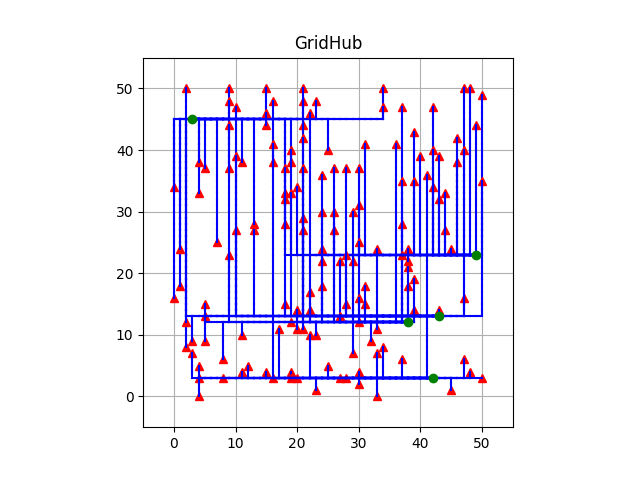
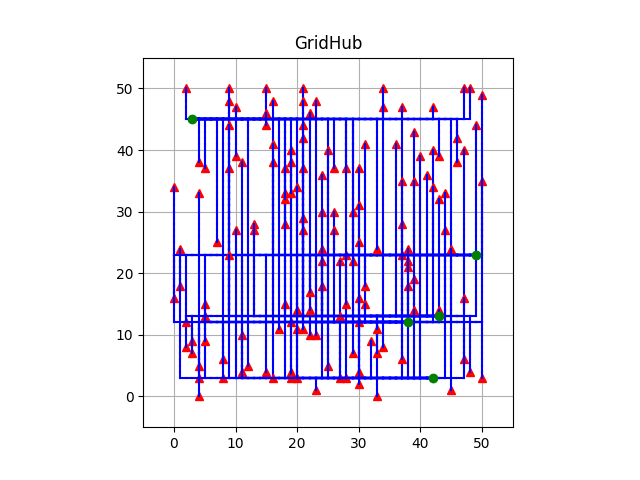
update greedy with shared cables

Changed region(s): [[0.25, 0.2188, 0.7812, 0.7812], [0.7188, 0.7812, 0.75, 0.8125]]

diff --git a/code/classes/grid.py b/code/classes/grid.py
@@ -6,6 +6,7 @@ import random
 from .battery import *
 from .cable import *
 from .house import *
+from .coordinate import *
 
 
 from code.classes import cable
@@ -15,7 +16,7 @@ DIMENSION = 51
 
 class Grid():
     """
-    This Grid Class initializes the Battery object with attributes: a grid with DIMENSIONS rows and columns.
+    This Grid Class initializes the Battery object with attributes: a grid with DIMENSION rows and columns.
     Also the list of house and battery objects live here
     """
 
@@ -28,7 +29,8 @@ class Grid():
         self.grid = []
         self.houses = self.load_houses(infile_house)
         self.batteries = self.load_batteries(infile_battery)
-        # self.grid_distances = []
+        self.coordinates = self.add_coordinates
+        self.connected_coordinates = []
         self.score = 0
         self.is_valid = True
 
@@ -43,8 +45,10 @@ class Grid():
             self.grid.append(new_row)
 
         # place into grid
+        self.add_coordinates()
         self.add_houses(self.houses)
         self.add_batteries(self.batteries)
+        
 
     def load_houses(self, source_file):     
         """
@@ -89,6 +93,9 @@ class Grid():
                 battery = Battery(x, y , cap, id)
                 batteries.append(battery)
                 id += 1
+
+                self.coordinates[x + (51 - y) * 51].batteries.append(battery)
+                self.connected_coordinates.append[self.coordinates[x + (51 - y) * 51]]
 
         return batteries
 
@@ -189,9 +196,6 @@ class Grid():
         bat.capacity_left -= house.output
         self.lay_cable(bat, house)
 
-    # def pick_greedy(self, bat, house):
-        # pass 
-
     def reconnect_constraint(self, house, bat):
         """
 
@@ -228,4 +232,65 @@ class Grid():
     # def connect_house_greedy_con(self, house, bat):
     
     def __str__(self):
-        return f"grid solution object"
+        return f"grid object"
+
+
+    #######################
+    # Shared cables
+    #######################
+
+    def add_coordinates(self):
+        list = []
+
+        for y in range(DIMENSION):
+            for x in range(DIMENSION):
+                coordinate = Coordinate(x, y)
+                list.append(coordinate)
+
+        return list
+
+    def calc_distance(self, point1, point2):
+        dist = abs(point1.y_coordinate - point2.y_coordinate) + abs(point1.x_coordinate - point2.x_coordinate)
+        return dist
+
+    def calc_path(self, point1, point2):
+        path = []
+        
+        if point1.x_coordinate < point2.x_coordinate:
+            for x_step in range(point1.x_coordinate, point2.x_coordinate):
+                path.append([x_step, point1.y_coordinate])
+        else:
+            for x_step in range(point2.x_coordinate, point1.x_coordinate):
+                path.append([point1.x_coordinate - x_step + point2.x_coordinate, point1.y_coordinate])
+
+        if point1.y_coordinate < point2.y_coordinate:
+            for y_step in range(point1.y_coordinate, point2.y_coordinate + 1):
+                path.append([point2.x_coordinate, y_step])
+        else:
+            for y_step in range(point2.y_coordinate, point1.y_coordinate + 1):
+                path.append([point2.x_coordinate, point1.y_coordinate - y_step + point2.y_coordinate])
+        
+        return path
+
+    def mark_connected(self, coordinate, bat):
+        coordinate.batteries.append(bat)
+
+    def is_connected(self, coordinate):
+        if coordinate.batteries:
+            return True
+        return False
+
+    def connect_power(self, path, bat):
+        for point in path:
+            # for coordinate in self.coordinates:
+            #     if coordinate.id == 100 * point[0] + point[1]:
+            #         self.mark_connected(coordinate, bat)
+            self.coordinates[point[0] + (51 - point[1]) * 51].batteries.append(bat)
+            self.connected_coordinates.append(self.coordinates[point[0] + (51 - point[1]) * 51])
+
+            
+            
+
+        
+
+

diff --git a/code/visualisations/visualise.py b/code/visualisations/visualise.py
@@ -7,12 +7,8 @@ pip3 install matplotlib
 from matplotlib import pyplot as plt
 
 # In de juiste mappen gaan
-import sys, os
-import numpy as np
-
-
-sys.path.insert(0, os.path.abspath('../..'))
-from code.classes import battery, house, cable, grid
+# import sys, os
+# sys.path.insert(0, os.path.abspath('../..'))
 
 
 def visualise(grid_input):
@@ -25,12 +21,12 @@ def visualise(grid_input):
     ax = fig.add_subplot(111)
     # create a grid with x and y axes -5 to -55 and every interval of 1 for each x and y
     plt.axis([-5, 55, -5, 55])
-    plt.xticks = np.arange(-5, 55)
-    plt.yticks = np.arange(-5, 55)
-    # plt.xticks([-5, -4, -3, -2, -1, 0, 1, 2, 3, 4, 5, 6, 7, 8, 9, 10, 11, 12, 13, 14, 15 ,16 ,17, 18, 19, 20, 21, 22, 23, 24, 25, 26, 27, 28, 29, 30,
-    # 31, 32, 33, 34, 35, 36, 37, 38, 39, 40, 41, 42, 43, 44, 45, 46, 47, 48, 49, 50, 51, 52, 53, 54, 55])
-    # plt.yticks([-5, -4, -3, -2, -1, 0, 1, 2, 3, 4, 5, 6, 7, 8, 9, 10, 11, 12, 13, 14, 15 ,16 ,17, 18, 19, 20, 21, 22, 23, 24, 25, 26, 27, 28, 29, 30,
-    # 31, 32, 33, 34, 35, 36, 37, 38, 39, 40, 41, 42, 43, 44, 45, 46, 47, 48, 49, 50, 51, 52, 53, 54, 55])
+    # plt.xticks = np.arange(-5, 55)
+    # plt.yticks = np.arange(-5, 55)
+    plt.xticks([-5, -4, -3, -2, -1, 0, 1, 2, 3, 4, 5, 6, 7, 8, 9, 10, 11, 12, 13, 14, 15 ,16 ,17, 18, 19, 20, 21, 22, 23, 24, 25, 26, 27, 28, 29, 30,
+    31, 32, 33, 34, 35, 36, 37, 38, 39, 40, 41, 42, 43, 44, 45, 46, 47, 48, 49, 50, 51, 52, 53, 54, 55])
+    plt.yticks([-5, -4, -3, -2, -1, 0, 1, 2, 3, 4, 5, 6, 7, 8, 9, 10, 11, 12, 13, 14, 15 ,16 ,17, 18, 19, 20, 21, 22, 23, 24, 25, 26, 27, 28, 29, 30,
+    31, 32, 33, 34, 35, 36, 37, 38, 39, 40, 41, 42, 43, 44, 45, 46, 47, 48, 49, 50, 51, 52, 53, 54, 55])
     plt.title('GridHub')
     plt.grid(True)
 
@@ -39,10 +35,6 @@ def visualise(grid_input):
     houses = grid.houses
     batteries = grid.batteries
     
-    #rid.houses[12].print_house()
-    # for cable in grid.houses[12].cables:
-    #     print(cable.path)
-
     
     # for each house plot the house with x and y coordinates
     for house in houses:
@@ -60,9 +52,8 @@ def visualise(grid_input):
                 y_end = cable.path[i+1][1]
                 x_line = [x_begin, x_end]
                 y_line = [y_begin, y_end]
+
                 plt.plot(x_line, y_line, color='blue')
-
-
                 
                 # if (x_begin == 38) & (y_begin == 12):
                 #     plt.plot(x_line, y_line, color='blue')
@@ -74,10 +65,7 @@ def visualise(grid_input):
                 #     plt.plot(x_line, y_line, color='red')
                 # elif (x_begin == 3) & (y_begin == 45):
                 #     plt.plot(x_line, y_line, color='purple')
-                # if i%2 == 0:
-                #     plt.plot(x_line, y_line, color='blue')
-                # else:
-                #     plt.plot(x_line, y_line, color='yellow')
+
 
 
     # for each battery plot the battery with x and y coordinates
@@ -87,6 +75,8 @@ def visualise(grid_input):
         plt.plot(x_bat, y_bat, 'o', color='green')
     
     # show this with matplotlib
-    ax.set_aspect('equal', adjustable='box')
-    # plt.show()
-    plt.savefig("grid.png")
+
+    # ax.set_aspect('equal', adjustable='box')
+    # plt.savefig("grid.png")
+
+    plt.show()

diff --git a/code/algorithms/greedy.py b/code/algorithms/greedy.py
@@ -84,21 +84,6 @@ class Greedy(Random):
                         house.available_bats[bat] = dist
                     else:
                         house.unavailable_bats[bat] = dist
-                
-                # save the number of options the house had to connect
-                # house.bat_options = len(available_bats)
-                # print(house.bat_options)
-                # if house.bat_options == 5:
-                #     c5 += 1
-                # elif house.bat_options == 4:
-                #     c4 += 1
-                # elif house.bat_options == 3:
-                #     c3 += 1
-                # elif house.bat_options == 2:
-                #     c2 += 1
-                # elif house.bat_options == 1:
-                #     c1 += 1
-
 
                 # break out of the loop if there are no available batteries left
                 if not grid.bat_available(house):
@@ -191,7 +176,46 @@ class Greedy(Random):
         self.constrained_greedy()
         print(self.best_try.score)
         return self.best_try
+
+    #######################
+    # Cable Sharing
+    #######################
+
+    def greedy_share(self, grid):
         
+        ### ga langs radom huis
+        for x in range(self.tries):
+            
+            # make deepcopy
+            grid = copy.deepcopy(test_grid)
+            
+            # shuffle the houses in the grid
+            # random.shuffle(grid.houses)
+            grid.shuffle_list(grid.houses)
+            
+
+            # loop through the houses on the grid
+            for house in grid.houses:
+
+                # make a list of distances 
+                distances = []
+                # for every point on the connected coordinates cable line
+                for point in grid.connected_coordinates:
+                    
+                    # distances 
+                    distances = grid.calc_distance(house, point)
+                    
+                dist = min(distances)
+
+
+
+
+
+
+
+        ### zoek dichtsbijzijnde coordinate dat verbonden is aan een batterij 
+                ## anders verbindt huis met dichtsbijzijnde batterij 
+        ### 
 
 
     

diff --git a/main.py b/main.py
@@ -4,7 +4,7 @@ from code.visualisations import visualise as vis
         
 if __name__ == "__main__":
 
-    district = "1"
+    district = "3"
 
     test_grid = grid.Grid(f"data/district_{district}/district-{district}_houses.csv", f"data/district_{district}/district-{district}_batteries.csv")
      
@@ -12,22 +12,20 @@ if __name__ == "__main__":
     # --------------------------------- Random ------------------------------------------
     # random_algorithm = random.Random(100)
     # valid_grid = random_algorithm.run()
-    # print(valid_grid)
 
     # --------------------------------- Greedy UNCONSTRAINED--------------------------------------------
-    # greed = greedy.Greedy(1)
-    # valid_grid = greed.run_unconstrained()
+    greed = greedy.Greedy(1)
+    valid_grid = greed.run_unconstrained()
     
 
     # --------------------------------- Greedy CONSTRAINED ----------------------------------------------
-    greed = greedy.Greedy(1000)
-    valid_grid = greed.run_constrained()
-    print(valid_grid.score) 
+    # greed = greedy.Greedy(1000)
+    # valid_grid = greed.run_constrained()
 
     # --------------------------------- Hill Climber --------------------------------------
-    climber = hillclimber.HillClimber(valid_grid)
-    print(f"Running HillClimber...")
-    climber.run(1000)
+    # climber = hillclimber.HillClimber(valid_grid)
+    # print(f"Running HillClimber...")
+    # climber.run(1000)
 
     # --------------------------------- Visualise --------------------------------------
-    #vis.visualise(valid_grid)
+    # vis.visualise(valid_grid)

diff --git a/code/classes/cable.py b/code/classes/cable.py
@@ -23,21 +23,16 @@ class Cable():
         if self.x_start < self.x_end:
             for x_step in range(self.x_start, self.x_end):
                 path.append([x_step, self.y_start])
-            # print(1)
         else:
-            # print(range(self.x_end, self.x_start))
             for x_step in range(self.x_end, self.x_start):
                 path.append([self.x_start - x_step + self.x_end, self.y_start])
-            # print(2)
 
         if self.y_start < self.y_end:
             for y_step in range(self.y_start, self.y_end + 1):
                 path.append([self.x_end, y_step])
-            # print(3)
         else:
             for y_step in range(self.y_end, self.y_start + 1):
                 path.append([self.x_end, self.y_start - y_step + self.y_end])
-            # print(4)
         return path
 
     def calc_length(self):
@@ -46,14 +41,3 @@ class Cable():
         """
         length = len(self.path)
         return length
-
-# class Item():
-#         def __init__(self, x, y):
-#             self.x_coordinate = x
-#             self.y_coordinate = y
-
-# if __name__ == "__main__":
-#     item1 = Item(6, 10)
-#     item2 = Item(5, 10)
-#     cable = Cable(item1, item2)
-#     print(cable.path)

diff --git a/code/classes/coordinate.py b/code/classes/coordinate.py
@@ -1,0 +1,13 @@
+class Coordinate():
+    """
+    
+    """
+    def __init__(self, x_coordinate, y_coordinate):
+        """
+        
+        """
+        self.id = 100 * x_coordinate + y_coordinate
+        self.x_coordinate = x_coordinate 
+        self.y_coordinate = y_coordinate
+        self.batteries = []
+

diff --git a/code/algorithms/random.py b/code/algorithms/random.py
@@ -4,7 +4,7 @@ import statistics
 
 from code.classes import grid
 
-district = "1"          ### ?
+district = "1"
 
 test_grid = grid.Grid(f"data/district_{district}/district-{district}_houses.csv", f"data/district_{district}/district-{district}_batteries.csv")
 
